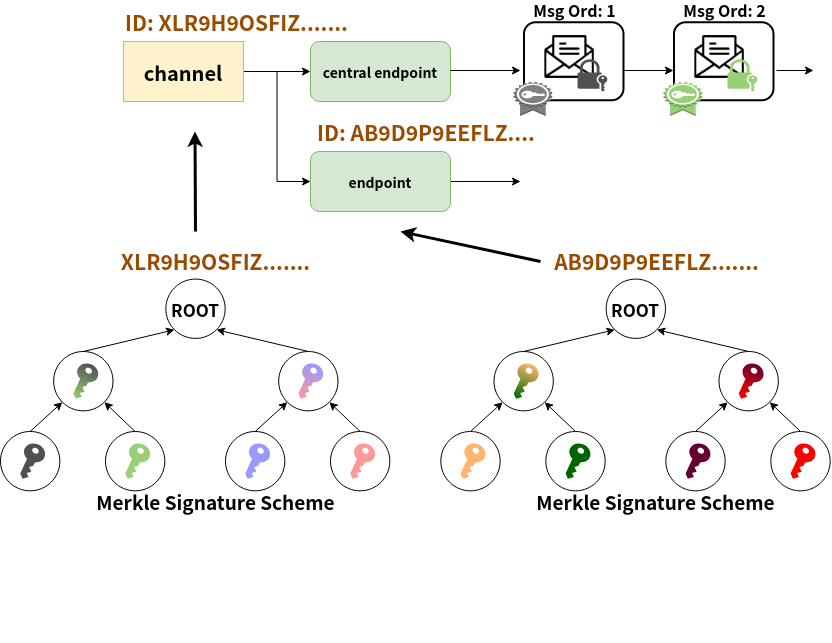
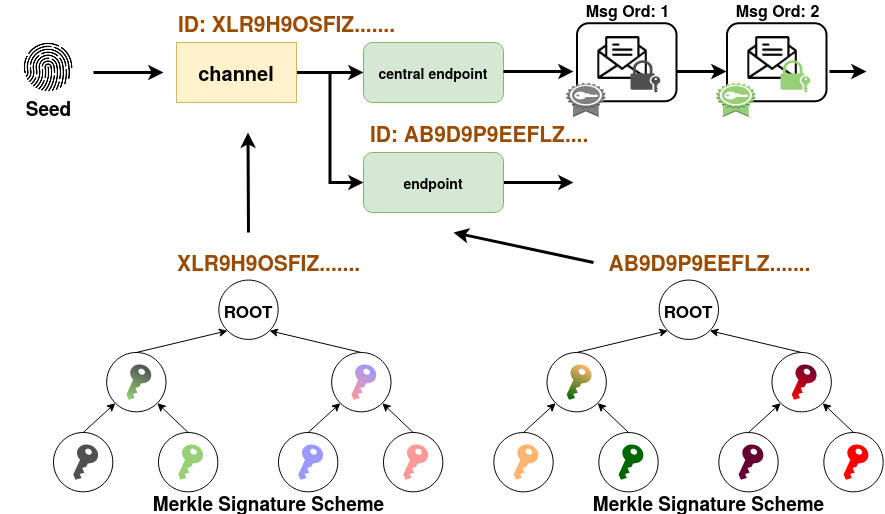
Add description of seed and update mam figure

diff --git a/paper.tex b/paper.tex
@@ -260,12 +260,12 @@ As for MAM operations, the performance results in Section.\ref{section:mam_perfo
 MAM enables broadcasting encrypted and authenticated data stream, referring as channel, on the Tangle. The publisher publishes messages that are propagated through the network and can be accessed by the subscribers only. With MAM, the rights of data access are traded instead of a copy of data in the trading platform, which eliminates the need for data consumers to have additional storage. 
 
 \subsection{The Message Streams}
-A channel/endpoint is a stream of MAM transaction bundles, which consist of signature and the masked message payload. To publish a MAM message to channel, MAM deploys MSS to sign the message payload to channel, where $channel\ ID = root$ i.e., the MSS Merkle root. Furthermore, the structure of channel/endpoint implements forward linking, each address of a message can be derived from the previous one that other entities can fetch the next payload. This design also brings the advantage of forward secrecy, where no one has access to the data back from his/her entry point. Figure.~\ref{fig:mam_structure} shows the structure of MAM channel/endpoint. 
+A channel/endpoint is a stream of MAM transaction bundles, which consist of signature and the masked message payload. To publish a MAM message to channel, MAM deploys MSS to sign the message payload to channel, where $channel\ ID = root$ i.e., the MSS Merkle root. The Merkle tree is generated with \textbf{seed}, an identifier of its owner in the IOTA protocol, represents the ownership of all things associated with the user in the IOTA ecosystem. Furthermore, the structure of channel/endpoint implements forward linking, each address of a message can be derived from the previous one that other entities can fetch the next payload. This design also brings the advantage of forward secrecy, where no one has access to the data back from his/her entry point. Figure.~\ref{fig:mam_structure} shows the structure of MAM channel/endpoint. 
 
 \begin{figure}[h]
     \centering
     \includegraphics[width=3.5in]{mam_structure}
-    \caption{A user can generate multiple channels, which can then generate multiple endpoints. The IDs of channel and endpoint are the roots of different Merkle trees in MSS. The "central endpoint" has ID, where $endpoint\ ID = channel\ ID$}
+    \caption{With a seed, users can generate multiple channels, which can then generate multiple endpoints. The IDs of channel and endpoint are the roots of different Merkle trees in MSS. The "central endpoint" are endpoints that has ID, where $endpoint\ ID = channel\ ID$.}
     \label{fig:mam_structure}
 \end{figure}
 
